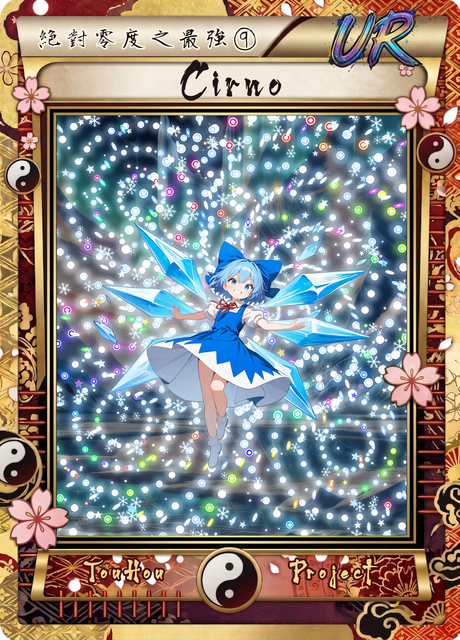
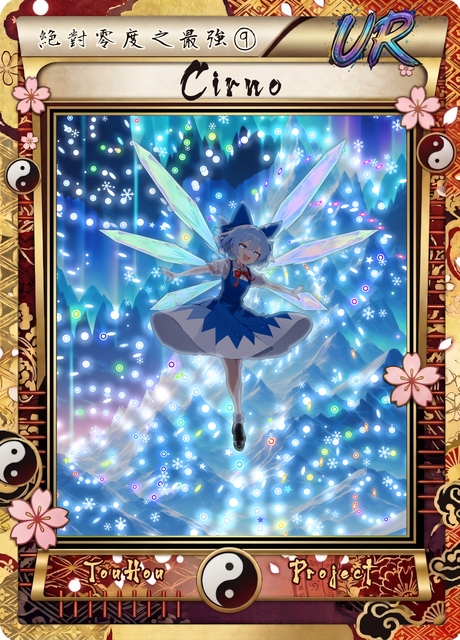
feat: 琪露諾 UR 改用高清分層 + 翅膀分層重做 (雙尖水晶翅膀、背光)
- 新增 tools/card_art/layered/wings.py：翅膀單獨生成去背，依參數左右對稱排在人物背後
- hd_card.py：翅膀層步驟 W1~W5 / 10d、錨點換算、去背時保留遮罩內的半透明部分、wings 指令
- relight.py：依顏色或遮罩指定發光部位 (emissive)，支援補洞與彩虹稜鏡
- 琪露諾 UR：深藍夜景 + 75% 凍結彈幕、人物比例偏小、背光、冰晶翅膀近白帶淡彩虹

diff --git a/tools/card_art/layered/hd_card.py b/tools/card_art/layered/hd_card.py
@@ -12,6 +12,8 @@
         09_char_cut_hd.png 去背 (BiRefNet)
         10_char.png        裁掉空白、傾斜 (tilt)、縮到剛好完整放進畫窗 (× char_scale)，放到畫窗大小的畫布 (offset 微調，超出切掉) ★
         10b_char_lit.png   打光 (relight.py：背光、輪廓光、翅膀紋路與眼睛發光；LAYERS 有 light 才做) ★ 有這張就用這張
+  翅膀  W1_crystal_X.png     單獨生成的水晶 (不要人物、白底) → W2_crystal_X_hd.png 放大 → W3_crystal_X_cut.png 去背 (只留最大一塊)
+        W4_wings.png       依 LAYERS 的 wings 排在人物背後 (左右對稱) → W5_wings_lit.png 打光 → 10d_char_wings.png 疊在人物下面 ★
         10c_char_photocraft.png  PhotoCraft 手修 (例如 pc_shinki_LR_tips.py) ★ 有這張就優先用；10b 重做後要記得重修
   疊層  11_art.png         背景 + 人物 (沒有框的完整原圖，也複製到 Original/Art/<角色>_<階級>.png；
                            10_char.png 另外複製成 Art/<角色>_<階級>_char.png)
@@ -30,6 +32,7 @@
   python hd_card.py bg <角色> <階級>                                 04、05
   python hd_card.py char <角色> <階級>                               09、10 (去背用 comfy venv 的 python)
   python hd_card.py light <角色> <階級>                              10b (打光，LAYERS 的 light)
+  python hd_card.py wings <角色> <階級>                              W3~W5、10d (翅膀層，LAYERS 的 wings；W2 要先放好)
   python hd_card.py compose <角色> <階級>                            11~16
 """
 import glob
@@ -39,7 +42,8 @@ import shutil
 import subprocess
 import sys
 
-from PIL import Image, ImageChops, ImageEnhance
+import numpy as np
+from PIL import Image, ImageChops, ImageDraw, ImageEnhance, ImageFilter
 
 HERE = os.path.dirname(os.path.abspath(__file__))
 sys.path.insert(0, os.path.dirname(HERE))
@@ -47,6 +51,7 @@ sys.path.insert(0, HERE)
 from card import PROJECT_ROOT, render_layered_stages, window_box  # noqa: E402
 from danmaku import BASE_W, draw_danmaku  # noqa: E402
 from relight import relight  # noqa: E402
+from wings import arrange, clean_crystal  # noqa: E402
 from make_workflow import BASE, NEGATIVE, QUALITY, EXTRA_NEGATIVE  # noqa: E402
 
 Image.MAX_IMAGE_PIXELS = None                      # 高清背景 6992×9728 超過 PIL 預設上限
@@ -84,19 +89,38 @@ LAYERS = {
     },
     # 琪露諾 UR「絕對零度之最強⑨」凍符「Perfect Freeze」：冰封湖面 + 極光 + 少量凍結彈幕；人物放大、冰晶翅膀展開、得意大笑
     ("cirno", "UR"): {
-        "bg": ("no humans, scenery, completely frozen lake, ice field, giant ice crystals, frost patterns, snowflakes, "
-               "diamond dust, aurora in the sky, pale blue and white, cold light, sparkling, crisp, bright, beautiful, "
-               "highly detailed, intricate details"),
-        "bg_negative": "1girl, person, human, character, face, wings, text, watermark, lowres, worst quality, low quality, blurry, frame, border, dark, night",
+        # 深藍色夜晚 + 極光：白色冰彈幕和背光的人物才看得清楚 (亮白雪地會讓彈幕糊成一片)
+        "bg": ("no humans, scenery, frozen lake at night, vast ice field, giant ice crystals, frost patterns, "
+               "brilliant aurora borealis, starry sky, deep blue and teal, cold glowing light, diamond dust, sparkling, "
+               "crisp, beautiful, highly detailed, intricate details"),
+        "bg_negative": "1girl, person, human, character, face, wings, text, watermark, lowres, worst quality, low quality, blurry, frame, border, white sky, overexposed",
         "char": ("dynamic pose, arms spread wide, casting ice magic, six ice crystal wings fully spread, "
                  "laughing, open mouth, smug, confident grin, v-shaped eyebrows, hair fluttering, dress fluttering, "
                  "frost particles around hands, slightly from below"),
         "style": "freeze",
         "density": 0.75,   # 使用者：UR 也要大量彈幕，比 LR 少一點
-        "dim": 0.5,
+        "dim": 0.8,        # 夜景本來就暗，不用壓太多
         "glow": 0.3,
-        "char_scale": 0.8, # 使用者：人物整體比例比較小 (跟 LR 一樣，彈幕當主角)
-        "light": {},       # 背光；眼睛座標、冰晶翅膀發光等選好人物再補
+        "char_scale": 0.6, # 人物 (不含翅膀) 的大小；加上翅膀後整體比例偏小 (跟 LR 一樣，彈幕當主角)
+        # 人物不畫翅膀 (06h：使用者選的 1 號用手描身體輪廓把翅膀塗白)；背光 + 冰藍色眼睛，座標是 10_char.png 上的位置
+        "light": {
+            "dark": 0.4,   # 背景很亮，背光要壓暗多一點才看得出來
+            "eyes": [(706, 500), (754, 524)], "eye_color": (150, 220, 255),
+        },
+        # 翅膀層 (wings.py)：單顆水晶 W1 生成 → W2 放大 → W3 去背 → W4 排在背後 → W5 打光，疊在人物下面
+        "wings": {
+            "crystals": {"D": "W1_crystal_D.png", "H": "W1_crystal_H.png"},   # 使用者選 D (細長雙尖) + H (寬短赫基蒙)
+            "anchor": (545, 405),   # 背後 (兩肩之間) 的位置，06 基本圖座標
+            # angle：從正上方順時針 (右側，左側自動鏡射)；length / r0：畫窗高度的比例；先寫的在下面
+            "items": [
+                {"crystal": "H", "angle": 112, "length": 0.2, "r0": 0.03, "width": 0.65},   # width：粗細 (水晶原圖偏胖)
+                {"crystal": "D", "angle": 72, "length": 0.32, "r0": 0.03, "width": 0.6},
+                {"crystal": "D", "angle": 38, "length": 0.38, "r0": 0.03, "width": 0.6},
+            ],
+            # 使用者：亮到接近白色但還是藍色系、淡淡的彩虹稜鏡 (像水晶散射彩虹光)
+            "light": {"dark": 0.0, "rim": 0.5, "halo": 0.5,
+                      "emissive": [{"mask": "alpha", "color": (170, 222, 255), "strength": 1.0, "body": 0.75, "prism": 0.45}]},
+        },
     },
 }
 
@@ -242,22 +266,92 @@ def make_char(char_id, rarity):
     print("✅ 09_char_cut_hd")
     spec = LAYERS[(char_id, rarity)]
     ch = Image.open(os.path.join(d, "09_char_cut_hd.png")).convert("RGBA")
-    ch = ch.crop(ch.split()[3].point(lambda v: 255 if v > 8 else 0).getbbox())   # 去掉四周空白
-    if spec.get("tilt"):
-        ch = ch.rotate(spec["tilt"], resample=Image.BICUBIC, expand=True)
-        ch = ch.crop(ch.getbbox())
+    if spec.get("wing_mask"):   # 去背模型會把半透明的水晶翅膀當背景切掉：翅膀遮罩範圍內一律保留
+        wm = Image.open(os.path.join(d, spec["wing_mask"])).convert("L").resize(ch.size, Image.BILINEAR)
+        wm = wm.filter(ImageFilter.GaussianBlur(2))
+        alpha = ImageChops.lighter(ch.split()[3], wm)
+        orig = Image.open(src).convert("RGB")                       # 去背結果被切掉的地方是黑色，顏色要從原圖拿
+        ch = Image.composite(orig, ch.convert("RGB"), wm).convert("RGBA")
+        ch.putalpha(alpha)
+    box = ch.split()[3].point(lambda v: 255 if v > 8 else 0).getbbox()            # 去掉四周空白
+
+    def place(img, resample):
+        """跟人物一樣：裁空白 → 傾斜 → 縮到放進畫窗 (× char_scale) → 放到畫窗大小的畫布 (offset，超出切掉)"""
+        img = img.crop(box)
+        if spec.get("tilt"):
+            img = img.rotate(spec["tilt"], resample=Image.BICUBIC, expand=True)
+            img = img.crop(rot_box)
+        img = img.resize(size, resample)
+        canvas = Image.new(img.mode, (r - l, b - t), 0)
+        canvas.paste(img, (round((canvas.width - img.width) / 2 + dx * canvas.width),
+                           round((canvas.height - img.height) / 2 + dy * canvas.height)))   # 超出部分 PIL 會自動裁掉
+        return canvas
+
+    rot = ch.crop(box).rotate(spec["tilt"], expand=True) if spec.get("tilt") else ch.crop(box)
+    rot_box = rot.getbbox()
+    rot = rot.crop(rot_box)
     l, t, r, b = window_box()
-    scale = min((r - l) / ch.width, (b - t) / ch.height) * spec.get("char_scale", 1.0)   # 完整放進畫窗
-    ch = ch.resize((round(ch.width * scale), round(ch.height * scale)), Image.LANCZOS)
-    # 放到畫窗大小的透明畫布：預設置中，offset (畫窗寬高的比例) 微調位置，超出畫窗的部分切掉
+    scale = min((r - l) / rot.width, (b - t) / rot.height) * spec.get("char_scale", 1.0)   # 完整放進畫窗
+    size = (round(rot.width * scale), round(rot.height * scale))
     dx, dy = spec.get("offset", (0, 0))
-    canvas = Image.new("RGBA", (r - l, b - t), (0, 0, 0, 0))
-    canvas.alpha_composite(ch, (round((canvas.width - ch.width) / 2 + dx * canvas.width),
-                                round((canvas.height - ch.height) / 2 + dy * canvas.height)))   # 超出部分 PIL 會自動裁掉
-    canvas.save(os.path.join(d, "10_char.png"))
+    place(ch, Image.LANCZOS).save(os.path.join(d, "10_char.png"))
     print("✅ 10_char")
+    # 手描的翅膀遮罩 (06 基本圖座標) 跟著放大、裁切、縮放，打光用 (relight 的 emissive "mask")
+    if spec.get("wing_mask"):
+        m = Image.open(os.path.join(d, spec["wing_mask"])).convert("L").resize(ch.size, Image.BILINEAR)
+        place(m, Image.BILINEAR).save(os.path.join(d, "10w_char_wingmask.png"))
+        print("✅ 10w_char_wingmask")
+    # 翅膀層的錨點 (06 基本圖座標) 也跟著人物換算到 10_char.png 上
+    if spec.get("wings"):
+        base_w, base_h = Image.open(os.path.join(d, "06_char_base.png")).size
+        ax, ay = spec["wings"]["anchor"]
+        dot = Image.new("L", ch.size, 0)
+        sx, sy = ch.width / base_w, ch.height / base_h
+        ImageDraw.Draw(dot).ellipse((ax * sx - 12 * sx, ay * sy - 12 * sy, ax * sx + 12 * sx, ay * sy + 12 * sy), fill=255)
+        ys, xs = np.nonzero(np.asarray(place(dot, Image.BILINEAR)) > 127)
+        with open(os.path.join(d, "10_anchor.json"), "w", encoding="utf-8") as f:
+            json.dump({"anchor": [float(xs.mean()), float(ys.mean())]}, f)
+        print("✅ 10_anchor.json")
     if spec.get("light") is not None:
         make_light(char_id, rarity)
+    if spec.get("wings") and all(os.path.exists(os.path.join(d, f"W3_crystal_{k}_cut.png")) for k in spec["wings"]["crystals"]):
+        make_wings(char_id, rarity)
+
+
+def make_wings(char_id, rarity):
+    """翅膀層：W2 (放大) → W3 去背 → W4 排列 → W5 打光 → 10d 疊在人物下面"""
+    d = stage_dir(char_id, rarity)
+    ws = LAYERS[(char_id, rarity)]["wings"]
+    crystals = {}
+    for key in ws["crystals"]:
+        cut = os.path.join(d, f"W3_crystal_{key}_cut.png")
+        if not os.path.exists(cut):
+            hd = os.path.join(d, f"W2_crystal_{key}_hd.png")
+            subprocess.run([COMFY_PY, "-I", os.path.join(HERE, "cutout.py"), hd, d], check=True)
+            clean_crystal(Image.open(os.path.join(d, f"W2_crystal_{key}_hd_cut.png")).convert("RGBA")).save(cut)
+            os.remove(os.path.join(d, f"W2_crystal_{key}_hd_cut.png"))
+            print(f"✅ W3_crystal_{key}_cut")
+        crystals[key] = Image.open(cut).convert("RGBA")
+    l, t, r, b = window_box()
+    H = b - t
+    with open(os.path.join(d, "10_anchor.json"), encoding="utf-8") as f:
+        anchor = json.load(f)["anchor"]
+    items = [dict(it, length=it["length"] * H, r0=it.get("r0", 0) * H) for it in ws["items"]]
+    layer = arrange((r - l, b - t), anchor, items, crystals)
+    layer.save(os.path.join(d, "W4_wings.png"))
+    print("✅ W4_wings")
+    win = Image.open(os.path.join(d, "05_bg.png")).convert("RGB").crop((l, t, r, b))
+    opts = dict(ws.get("light", {}))
+    alpha = np.asarray(layer.split()[3], dtype=np.float32) / 255
+    opts["emissive"] = [dict(em, mask=alpha) if em.get("mask") == "alpha" else em for em in opts.get("emissive", [])]
+    lit = relight(layer, win, opts)
+    lit.save(os.path.join(d, "W5_wings_lit.png"))
+    print("✅ W5_wings_lit")
+    body = os.path.join(d, "10b_char_lit.png")
+    body = body if os.path.exists(body) else os.path.join(d, "10_char.png")
+    lit.alpha_composite(Image.open(body).convert("RGBA"))              # 人物蓋在翅膀上
+    lit.save(os.path.join(d, "10d_char_wings.png"))
+    print("✅ 10d_char_wings")
 
 
 def make_light(char_id, rarity):
@@ -267,13 +361,16 @@ def make_light(char_id, rarity):
         raise SystemExit("LAYERS 沒有 light 設定")
     l, t, r, b = window_box()
     win = Image.open(os.path.join(d, "05_bg.png")).convert("RGB").crop((l, t, r, b))
+    opts = dict(opts)
+    opts["emissive"] = [dict(em, mask=np.asarray(Image.open(os.path.join(d, em["mask"])).convert("L"), dtype=np.float32) / 255)
+                        if isinstance(em.get("mask"), str) else em for em in opts.get("emissive", [])]   # 遮罩檔名 ➔ 陣列
     relight(Image.open(os.path.join(d, "10_char.png")), win, opts).save(os.path.join(d, "10b_char_lit.png"))
     print("✅ 10b_char_lit")
 
 
 def char_layer(d):
-    """疊層用的人物：PhotoCraft 手修版 (10c) > 打光版 (10b) > 10"""
-    for name in ("10c_char_photocraft.png", "10b_char_lit.png", "10_char.png"):
+    """疊層用的人物：PhotoCraft 手修版 (10c) > 加上翅膀層 (10d) > 打光版 (10b) > 10"""
+    for name in ("10c_char_photocraft.png", "10d_char_wings.png", "10b_char_lit.png", "10_char.png"):
         if os.path.exists(os.path.join(d, name)):
             return os.path.join(d, name)
 
@@ -332,6 +429,8 @@ def main():
         make_char(char_id, rarity)
     elif cmd == "light":
         make_light(char_id, rarity)
+    elif cmd == "wings":
+        make_wings(char_id, rarity)
     elif cmd == "compose":
         compose(char_id, rarity)
     else:

diff --git a/tools/card_art/layered/relight.py b/tools/card_art/layered/relight.py
@@ -10,6 +10,7 @@ opts (都可省略)：
   glow_red    翅膀上細紅紋路的發光強度 (只抓細線，衣服大片紅色不會發光)
   wing_dark   翅膀本體 (紫色 / 黑色部分) 再壓暗的程度
   eyes        眼睛中心座標 [(x, y), ...] (10_char.png 的座標)；eye 強度、eye_color、eye_size
+  emissive    依顏色指定的發光部位清單 [{hue: (lo, hi), sat: (lo, hi), val: (lo,), color, strength, exclude: [多邊形]}]
 """
 import colorsys
 
@@ -71,6 +72,46 @@ def relight(char: Image.Image, bg: Image.Image, opts: dict) -> Image.Image:
     out = out + hot[..., None] * np.array([0.0, 0.35, 0.3]) * g
     bloom = (_blur(pattern, w / 260) * 1.2 + _blur(pattern, w / 90) * 0.5)[..., None] * np.array([1.0, 0.2, 0.35]) * g
     out = 1 - (1 - out) * (1 - np.clip(bloom, 0, 1) * wing[..., None])   # 紋路的光只暈在翅膀上，不會染到衣服
+
+    # 3b. 依顏色指定的發光部位 (例如琪露諾的冰晶翅膀)：hue / sat / val 範圍內、扣掉 exclude 多邊形 (頭髮等同色系部位)
+    for em in opts.get("emissive", []):
+        if "mask" in em:   # 手描的遮罩最準 (顏色選取會跟同色系的頭髮、衣服混在一起)
+            sel = (np.asarray(em["mask"]) > 0.5) & (a > 0.5)
+        else:
+            sel = (a > 0.5) & (sat >= em["sat"][0]) & (sat <= em["sat"][1]) & (val >= em["val"][0])
+            lo, hi = em["hue"]
+            sel &= (hue_ >= lo) & (hue_ <= hi)
+        if em.get("fill"):   # 補起區域內沒選到的灰色小塊 (冰晶內部的陰影)
+            sel = ndimage.binary_closing(sel, structure=np.ones((5, 5)), iterations=2)
+            sel = ndimage.binary_fill_holes(ndimage.binary_dilation(sel, iterations=4)) & (a > 0.5)   # 往外擴一點，邊緣灰條也包進來
+        sel = sel.astype(np.float32)
+        if em.get("exclude"):
+            ex = Image.new("L", (w, h), 0)
+            for poly in em["exclude"]:
+                ImageDraw.Draw(ex).polygon([tuple(p) for p in poly], fill=255)
+            sel *= 1 - np.asarray(ex, dtype=np.float32) / 255
+        m = _blur(sel, 0.8)
+        col = np.array(em.get("color", (120, 215, 255)), dtype=np.float32) / 255
+        s_ = em.get("strength", 1.0)
+        # 本體：保留顏色、往發光色偏 (body 越大越亮，用濾色提亮才不會變成灰白一片)
+        tinted = np.clip(out * np.array([0.8, 1.0, 1.12]), 0, 1)
+        lit = 1 - (1 - tinted) * (1 - col * em.get("body", 0.12) * s_)
+        if em.get("prism"):
+            # 稜鏡彩虹：色相隨位置與晶面明暗變化 (不同晶面散射不同顏色)，低飽和濾色疊上去
+            yy, xx = np.mgrid[0:h, 0:w].astype(np.float32)
+            hue_map = (xx / w * 1.3 + yy / h * 0.9 + _blur(val, 2) * 1.8) % 1.0
+            hsv_p = np.stack([hue_map, np.full_like(hue_map, em.get("prism_sat", 0.45)), np.ones_like(hue_map)], axis=-1)
+            rainbow = np.asarray(Image.fromarray((hsv_p * 255).astype(np.uint8), "HSV").convert("RGB"), dtype=np.float32) / 255
+            p = em["prism"]
+            lit = lit * (1 - p) + lit * rainbow * p                       # 乘上去才看得出顏色 (濾色在近白色上幾乎沒效果)
+        out = out * (1 - m[..., None]) + lit * m[..., None]
+        # 邊緣：背光透過冰晶的亮邊
+        ke = max(3, w // 300) | 1
+        edge = _blur(np.clip(m - _morph(m, ke, ImageFilter.MinFilter), 0, 1), 1.0)
+        out = 1 - (1 - out) * (1 - np.clip(edge * s_, 0, 1)[..., None] * col)
+        bloom_e = (_blur(edge, w / 250) * 1.0 + _blur(m, w / 70) * 0.35)[..., None] * col * s_
+        out = 1 - (1 - out) * (1 - np.clip(bloom_e, 0, 1) * m[..., None] * 0.4)
+        bloom = bloom + bloom_e                                           # 光也溢到人物外 (第 5 步)
 
     # 4. 眼睛發光：小光點 + 柔光
     eye_layer = Image.new("RGB", (w, h), 0)

diff --git a/tools/card_art/layered/wings.py b/tools/card_art/layered/wings.py
@@ -1,0 +1,60 @@
+"""翅膀層 (分層卡用)：翅膀單獨生成、去背，再用程式排在人物背後
+人物和翅膀畫在同一張圖時，翅膀常被畫面切掉、顏色選取會跟同色系的頭髮衣服混在一起、去背也會把半透明的水晶切掉，
+所以改成：人物不畫翅膀 + 單顆水晶 (W1 生成 → W2 放大 → W3 去背) → W4 程式排列 → W5 打光，疊在人物下面。
+
+clean_crystal(rgba)            去背後只留最大的一塊 (地板倒影、碎屑丟掉)，裁到範圍、轉成「尖端朝上」
+arrange(size, anchor, items, crystals)
+    items: [{"crystal": "D", "angle": 度 (從正上方順時針，右側翅膀), "length": 長度 (px), "r0": 根部離錨點的距離 (px),
+             "width": 粗細倍率 (預設 1), "mirror": True (左邊對稱也放一片)}]
+    先畫的在下面；回傳 RGBA (size 大小)
+"""
+import math
+
+import numpy as np
+from PIL import Image
+from scipy import ndimage
+
+
+def clean_crystal(rgba: Image.Image) -> Image.Image:
+    a = np.asarray(rgba.split()[3]) > 40
+    lab, n = ndimage.label(a)
+    if n == 0:
+        return rgba
+    sizes = np.bincount(lab.ravel())
+    sizes[0] = 0
+    keep = lab == sizes.argmax()
+    keep = ndimage.binary_dilation(keep, iterations=3)                 # 留一點邊緣的半透明
+    out = rgba.copy()
+    alpha = np.asarray(out.split()[3]).copy()
+    alpha[~keep] = 0
+    out.putalpha(Image.fromarray(alpha))
+    return out.crop(out.getbbox())
+
+
+def arrange(size, anchor, items, crystals) -> Image.Image:
+    layer = Image.new("RGBA", size, (0, 0, 0, 0))
+    ax, ay = anchor
+    for it in items:
+        sides = (1, -1) if it.get("mirror", True) else (1,)
+        for side in sides:
+            src = crystals[it["crystal"]]
+            if side == -1:
+                src = src.transpose(Image.FLIP_LEFT_RIGHT)
+            L = it["length"]
+            w = max(2, round(src.width * L / src.height * it.get("width", 1.0)))
+            img = src.resize((w, round(L)), Image.LANCZOS)
+            ang = it["angle"] * side                                     # 左邊鏡射
+            rot = img.rotate(-ang, resample=Image.BICUBIC, expand=True)  # PIL 是逆時針，翅膀角度是順時針
+            rad = math.radians(ang)
+            dist = it.get("r0", 0) + L / 2
+            cx, cy = ax + math.sin(rad) * dist, ay - math.cos(rad) * dist
+            _paste_clip(layer, rot, cx, cy)
+    return layer
+
+
+def _paste_clip(layer, img, cx, cy):
+    """超出畫布的部分裁掉再貼 (alpha_composite 不接受負座標)"""
+    x, y = round(cx - img.width / 2), round(cy - img.height / 2)
+    l, t = max(0, -x), max(0, -y)
+    img = img.crop((l, t, img.width, img.height))
+    layer.alpha_composite(img, (x + l, y + t))
